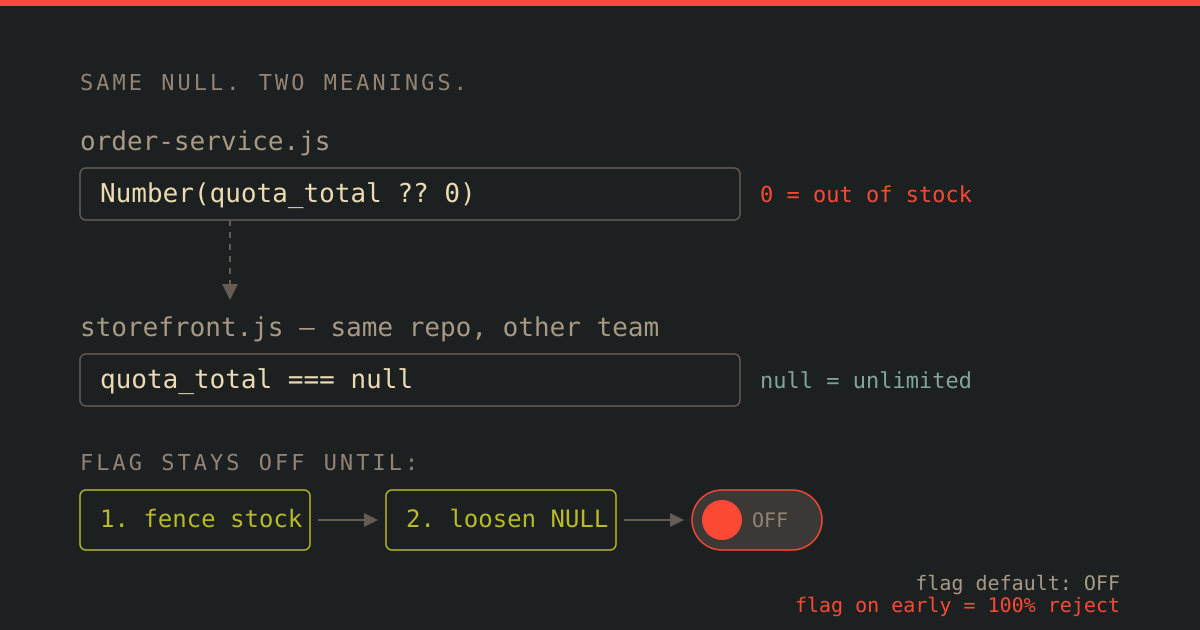
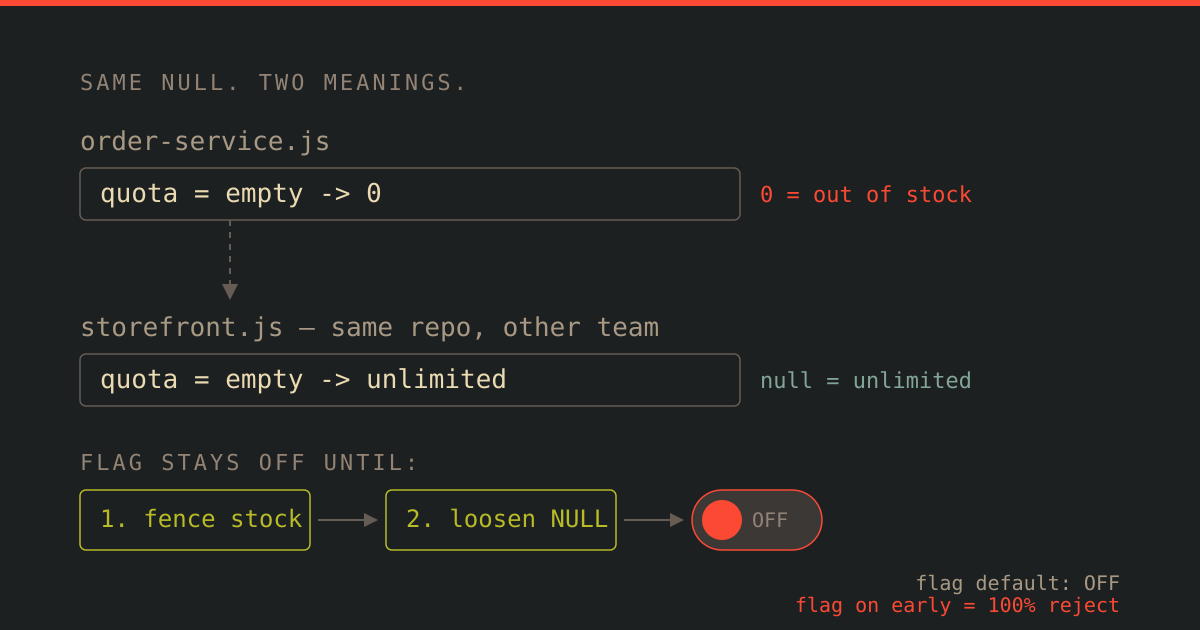
fix(feature-flag-nhu-release-gate): sửa lỗi sự thật về chế độ mới, gỡ code nguyên văn, ví dụ số nhất quán
- Bối cảnh: chế độ mới = không quota riêng, bán theo tồn khả dụng kho tổng
  (bản trước mô tả nhầm chế độ cũ)
- Bỏ dòng code + tên cột thật của repo team khác khỏi 2 bài và cover
- Ví dụ 10 đơn vị: tách tồn vật lý / đã phân bổ / pool = 0
- Thêm: flag kiểm 2 tầng UI + request/import; pre-check production = 0 dòng
  trước khi bật

Changed region(s): [[0.1542, 0.573, 0.4317, 0.6333], [0.0617, 0.2714, 0.3392, 0.3317], [0.37, 0.2714, 0.4008, 0.3317]]

diff --git a/content/posts/feature-flag-nhu-release-gate.en.md b/content/posts/feature-flag-nhu-release-gate.en.md
@@ -22,9 +22,11 @@ single time, if flipped on too early, counts as done.
 
 ## Context
 
-Early this September I owned the backend piece of a new promotional mode: every product
-in a campaign gets its own sale quota, and the system must reject orders once that quota
-runs out. The feature had a fixed ship date, and my part sat inside it.
+Early this September I owned the backend piece of a second stock mode for promotional
+campaigns. The mode already in production: a product has to be allocated a fixed quota
+before it can sell in a campaign. The new mode is the reverse: a product gets no quota of
+its own — it sells against the warehouse's available stock, live, at order time. The
+feature had a fixed ship date, and my part sat inside it.
 
 My scope was the quota service, where I had full write access. But orders flow through a
 second service, owned by another team, and that service has to read the new quota value
@@ -35,8 +37,8 @@ correctly before anything can actually sell. I had no merge rights into that rep
 Before writing any code, I read through that other service to see how it reads quota.
 Two spots in the same repo treated an empty value (`NULL`) in opposite ways:
 
-1. The order check coerced `NULL` to zero — `Number(quota_total ?? 0)`. Empty means
-   "out of stock," the order is rejected.
+1. The order check coerces an empty quota to zero. Empty means "out of stock," the
+   order is rejected.
 2. The storefront treated `NULL` as "unlimited," so the product still showed as
    purchasable.
 
@@ -76,10 +78,16 @@ order is rejected. Loosen before fencing: 100% oversell. The reason: between the
 steps, a shared-pool order is held back neither by its own quota nor by the reserved
 stock.
 
-An illustrative number, to show why the order matters. Say the shared pool holds 10
-units, and all 10 are reserved for another campaign. Loosen `NULL` before fencing: a
-shared-pool order reads "unlimited" and sells all 10 — the other campaign's stock. Fence
-first, then loosen: the same order sees a pool of 0 and is correctly rejected.
+An illustrative number, to show why the order matters. Say the warehouse holds 10
+physical units, all 10 already allocated to another campaign — so the shared pool is 0.
+Loosen `NULL` before fencing: a shared-pool order reads "unlimited" and sells all 10 of
+the other campaign's units. Fence first, then loosen: the same order sees a pool of 0 and
+is correctly rejected.
+
+The flag being off isn't just a hidden button. It's checked at two layers — the UI and
+the request/import layer — so calling the API directly with the flag off is still
+rejected. And the go condition isn't only "the other team has deployed": production data
+has to pass the pre-check queries with 0 offending rows first.
 
 The flag here isn't for gradual rollout. It's a way to turn a cross-team dependency into
 something checkable: the flag being off means the conditions aren't met, and the
